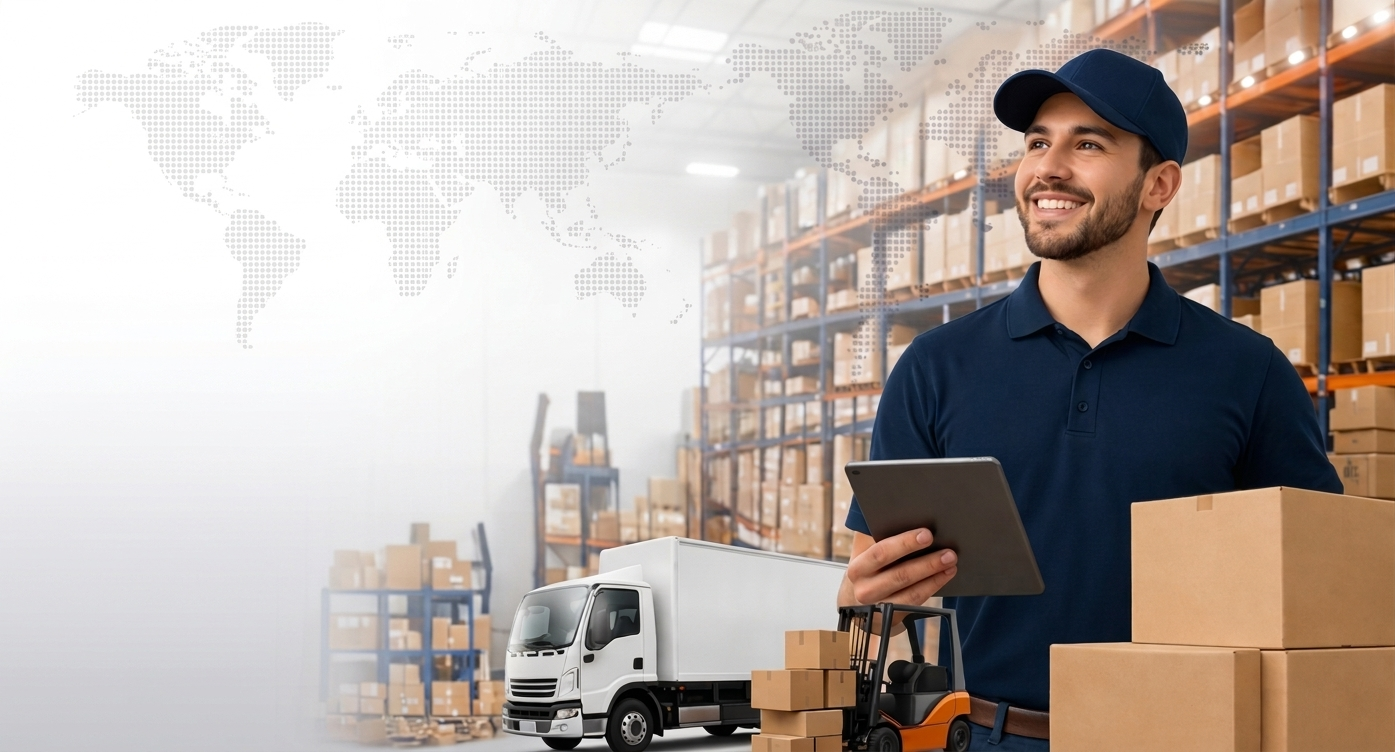
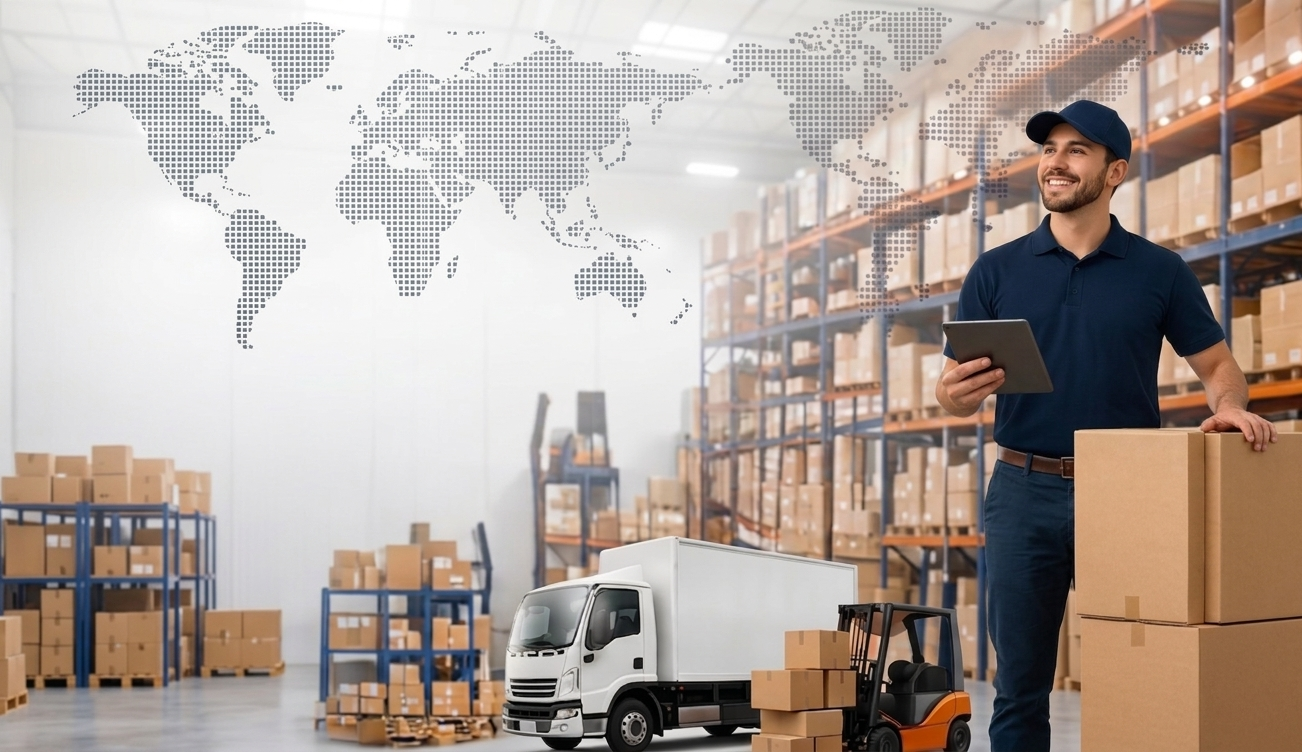
Changed hero image

diff --git a/components/services/amazon-fba-fbm/OptimizeSection.tsx b/components/services/amazon-fba-fbm/OptimizeSection.tsx
@@ -13,7 +13,7 @@ const features = [
   },
   {
     title: "Amazon Consulting",
-    description: "Unlock the full potential of your store with the expertise of our compliance specialists, who bring in-depth knowledge and hands-on experience to navigate the complexities of Amazon FBA and Amazon FBM in Canada.",
+    description: "Unlock the full potential of your store with the expertise of our compliance specialists, who bring in-depth knowledge and hands-on experience to navigate the complexities of Amazon FBA and Amazon FBM in USA.",
     image: "/amazon-fba-fbm/amazon-consulting.webp"
   },
   {
@@ -33,7 +33,7 @@ const features = [
   },
   {
     title: "Scalable Warehousing",
-    description: "Scale your business with access to 250,000+ sq ft of warehousing space, so you never have to worry about inventory restrictions or put a ceiling on your growth.",
+    description: "Scale your business with access to warehousing space, so you never have to worry about inventory restrictions or put a ceiling on your growth.",
     image: "/amazon-fba-fbm/scalable-warehousing.webp"
   }
 ];

diff --git a/components/home/Hero.tsx b/components/home/Hero.tsx
@@ -32,7 +32,7 @@ const Hero = () => {
           className="absolute inset-0 z-0"
         >
           <Image
-            src="/home/hero-3.png"
+            src="/home/hero.png"
             alt="Logistics Background"
             fill
             priority
